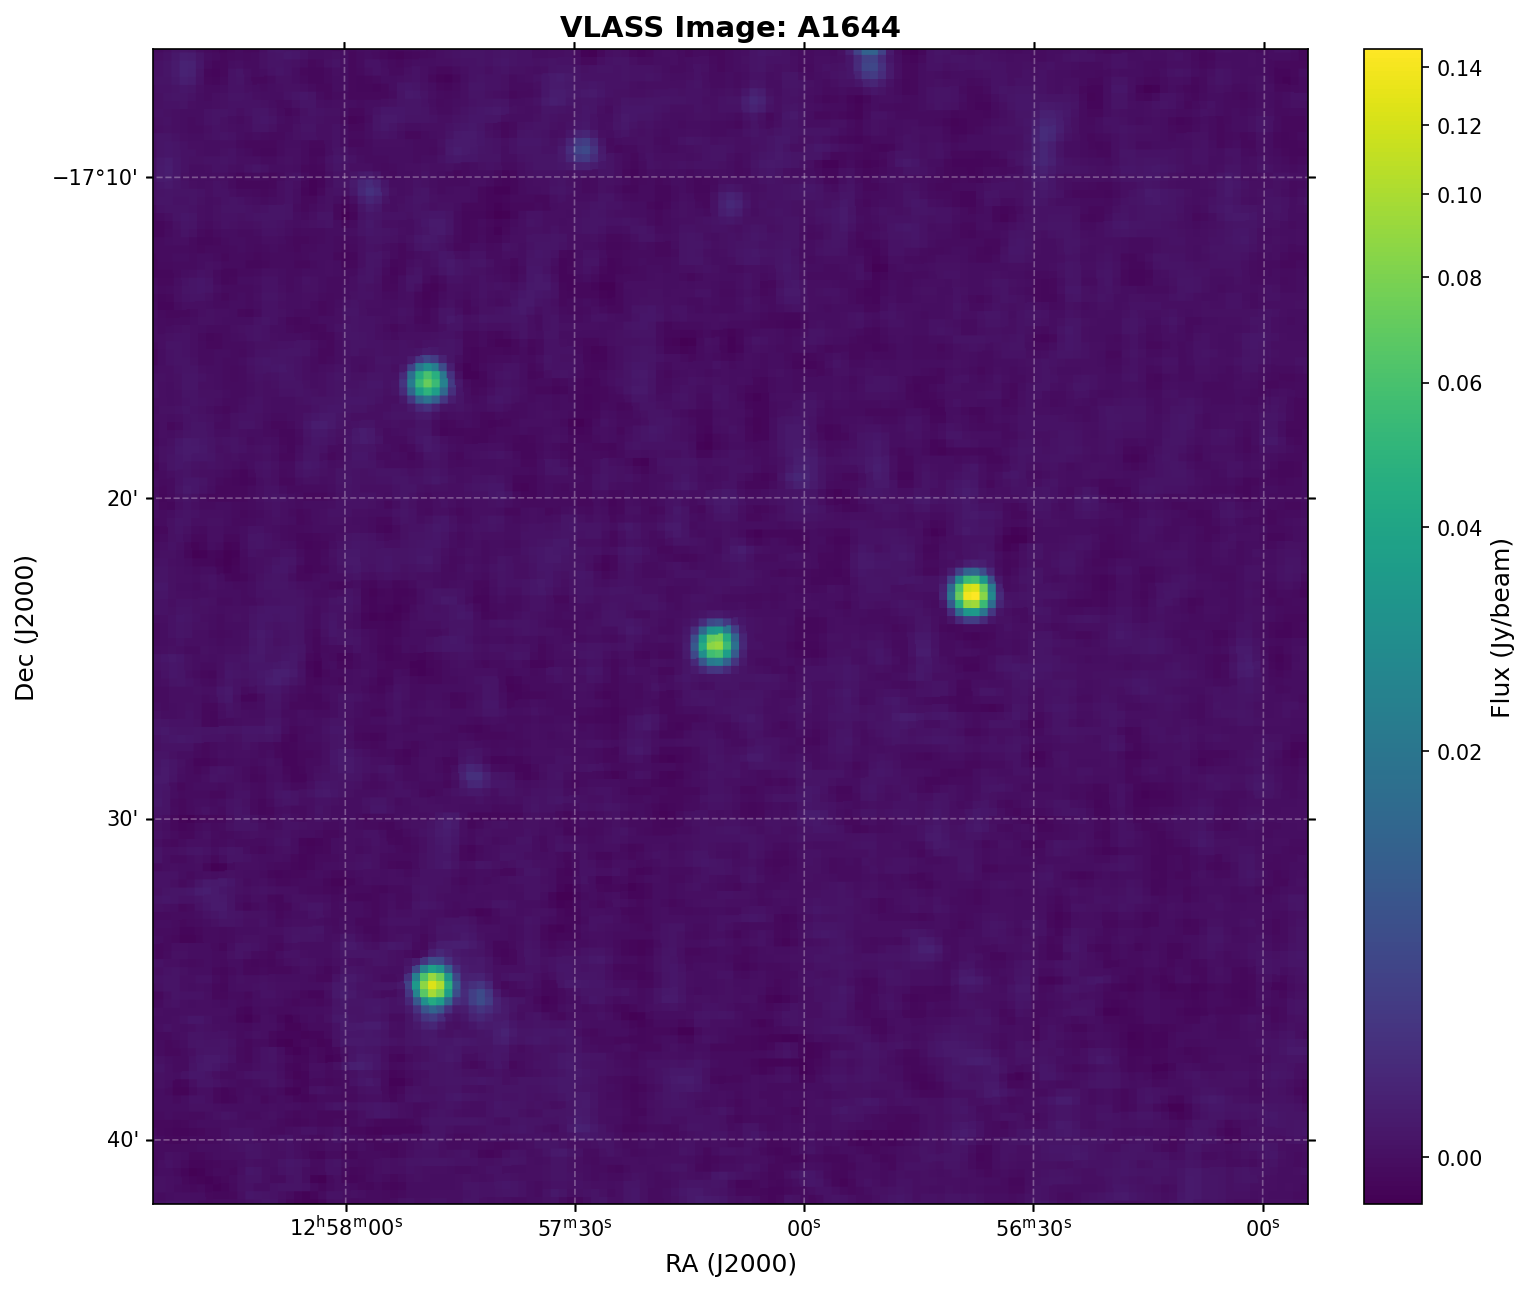
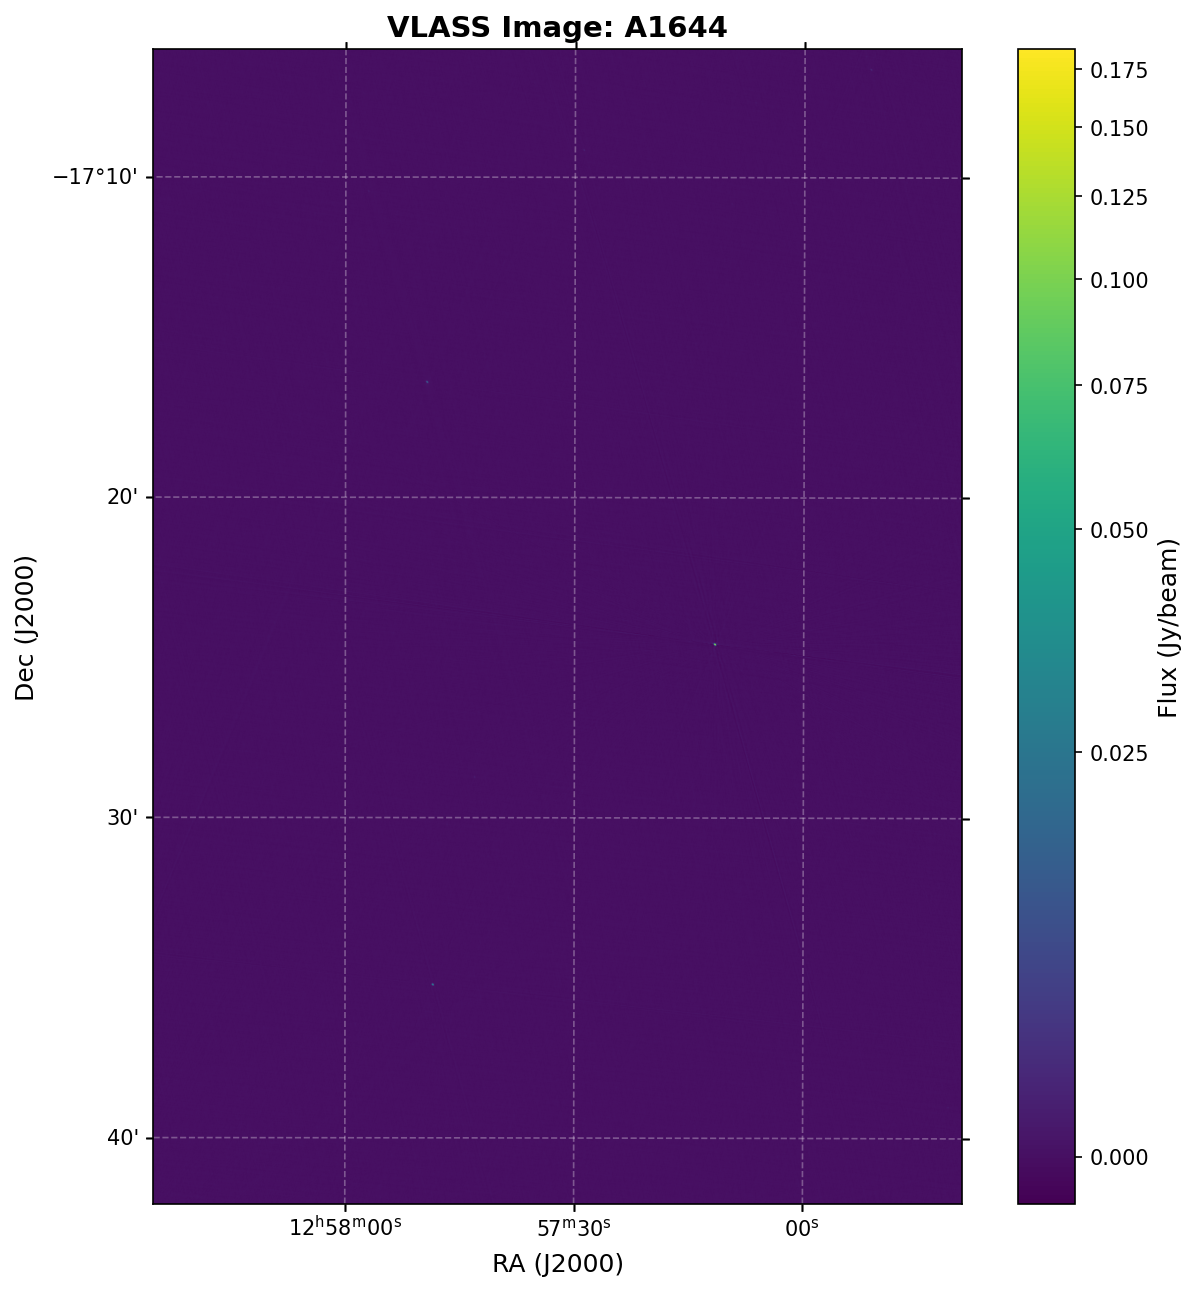
actually download everything from vlass i think? a1644 is weird

diff --git a/download_vlass_image.py b/download_vlass_image.py
@@ -10,12 +10,12 @@ from astropy import units as u
 from astropy.io import fits
 from astropy.wcs import WCS
 from astropy.visualization import ImageNormalize, AsinhStretch
-from astroquery.skyview import SkyView
+from astroquery.cadc import Cadc
 import numpy as np
 
 def download_vlass_cutout(ra, dec, size=0.5, name="target"):
     """
-    Download a VLASS image cutout using the CIRADA cutout service.
+    Download a VLASS image cutout using CADC.
 
     Parameters:
     -----------
@@ -39,75 +39,84 @@ def download_vlass_cutout(ra, dec, size=0.5, name="target"):
     print(f"  Size: {size:.2f} degrees ({size*60:.1f} arcmin)")
     print()
 
-    # Use the CIRADA VLASS cutout service
     try:
-        import requests
-        from io import BytesIO
+        cadc = Cadc()
 
-        # Convert size to arcminutes for the cutout service
-        size_arcmin = size * 60
+        # Query for VLASS images at this position
+        print("Querying CADC for VLASS data...")
+        result = cadc.query_region(
+            coord,
+            collection='VLASS',
+            radius=size*u.degree
+        )
 
-        # CIRADA cutout service URL
-        url = f"https://cutouts.cirada.ca/vlass_cutout"
-        params = {
-            'ra': ra,
-            'dec': dec,
-            'size': size_arcmin,  # size in arcminutes
-            'units': 'arcmin'
-        }
+        if result is None or len(result) == 0:
+            print("No VLASS data found at this position")
+            return None
 
-        print("Requesting cutout from CIRADA service...")
-        response = requests.get(url, params=params, timeout=60)
+        print(f"Found {len(result)} VLASS observations")
+        print(f"Available columns: {result.colnames[:10]}...")
 
-        if response.status_code == 200:
-            # Load the FITS data
-            hdu_list = fits.open(BytesIO(response.content))
+        # Get the first observation
+        obs = result[0]
+        print(f"\nUsing observation: {obs.get('observationID', 'N/A')}")
 
-            # Save the FITS file
-            filename = f"vlass_{name.replace(' ', '_')}.fits"
-            hdu_list.writeto(filename, overwrite=True)
-            print(f"Saved FITS file: {filename}")
-            return hdu_list
+        # Get images
+        print("Downloading images...")
+        cutout_hdu_list = cadc.get_images(
+            coord,
+            radius=size*u.degree,
+            collection='VLASS'
+        )
+
+        if cutout_hdu_list and len(cutout_hdu_list) > 0:
+            print(f"Downloaded {len(cutout_hdu_list)} image(s)")
+
+            # Find the image that actually contains our target
+            best_hdu = None
+            best_flux = -1
+
+            for i, hdu in enumerate(cutout_hdu_list):
+                data = np.squeeze(hdu[0].data)
+                wcs_full = WCS(hdu[0].header)
+                wcs_2d = wcs_full.celestial if wcs_full.naxis > 2 else wcs_full
+
+                # Check if target is in this image
+                target_pix = wcs_2d.world_to_pixel_values(ra, dec)
+                ny, nx = data.shape
+                in_image = (0 <= target_pix[0] < nx) and (0 <= target_pix[1] < ny)
+
+                if in_image:
+                    max_flux = np.nanmax(data)
+                    obs_id = hdu[0].header.get('OBJECT', f'image_{i}')
+                    print(f"  Image {i+1} ({obs_id}): contains target, max flux = {max_flux:.6f} Jy/beam")
+
+                    # Keep the image with highest max flux
+                    if max_flux > best_flux:
+                        best_flux = max_flux
+                        best_hdu = hdu
+
+            if best_hdu is not None:
+                # Save the FITS file
+                filename = f"vlass_{name.replace(' ', '_')}.fits"
+                best_hdu.writeto(filename, overwrite=True)
+                print(f"\nSaved FITS file: {filename} (max flux: {best_flux:.6f} Jy/beam)")
+                return best_hdu
+            else:
+                print("Warning: No image contains the target position!")
+                # Fall back to first image
+                filename = f"vlass_{name.replace(' ', '_')}.fits"
+                cutout_hdu_list[0].writeto(filename, overwrite=True)
+                print(f"Saved FITS file: {filename} (using first image)")
+                return cutout_hdu_list[0]
         else:
-            print(f"Error: HTTP {response.status_code}")
-            print("Trying alternative NVSS survey instead...")
-
-            # Fallback to NVSS if VLASS not available
-            hdu_list = SkyView.get_images(
-                position=coord,
-                survey='NVSS',
-                pixels=1000,
-                radius=size*u.degree
-            )
-
-            if hdu_list:
-                filename = f"nvss_{name.replace(' ', '_')}.fits"
-                hdu_list[0].writeto(filename, overwrite=True)
-                print(f"Saved NVSS FITS file instead: {filename}")
-                return hdu_list[0]
+            print("No image data returned")
             return None
 
     except Exception as e:
         print(f"Error downloading image: {str(e)}")
-        print("Trying NVSS as fallback...")
-
-        try:
-            # Fallback to NVSS
-            hdu_list = SkyView.get_images(
-                position=coord,
-                survey='NVSS',
-                pixels=1000,
-                radius=size*u.degree
-            )
-
-            if hdu_list:
-                filename = f"nvss_{name.replace(' ', '_')}.fits"
-                hdu_list[0].writeto(filename, overwrite=True)
-                print(f"Saved NVSS FITS file: {filename}")
-                return hdu_list[0]
-        except Exception as e2:
-            print(f"NVSS fallback also failed: {str(e2)}")
-
+        import traceback
+        traceback.print_exc()
         return None
 
 def display_vlass_image(hdu, name="target"):
@@ -123,10 +132,20 @@ def display_vlass_image(hdu, name="target"):
     """
     # Extract data and WCS
     data = hdu[0].data
-    wcs = WCS(hdu[0].header)
+    header = hdu[0].header
 
-    # Remove NaN values for better visualization
+    # Remove extra dimensions (e.g., frequency and Stokes)
     data = np.squeeze(data)  # Remove extra dimensions
+
+    # Create a 2D WCS from the full WCS
+    # VLASS images often have 4 dimensions (RA, Dec, Frequency, Stokes)
+    # We need to slice to just the spatial dimensions
+    full_wcs = WCS(header)
+    if full_wcs.naxis > 2:
+        # Drop the extra axes (typically frequency and Stokes)
+        wcs = full_wcs.celestial
+    else:
+        wcs = full_wcs
 
     # Create figure with WCS projection
     fig = plt.figure(figsize=(12, 10))